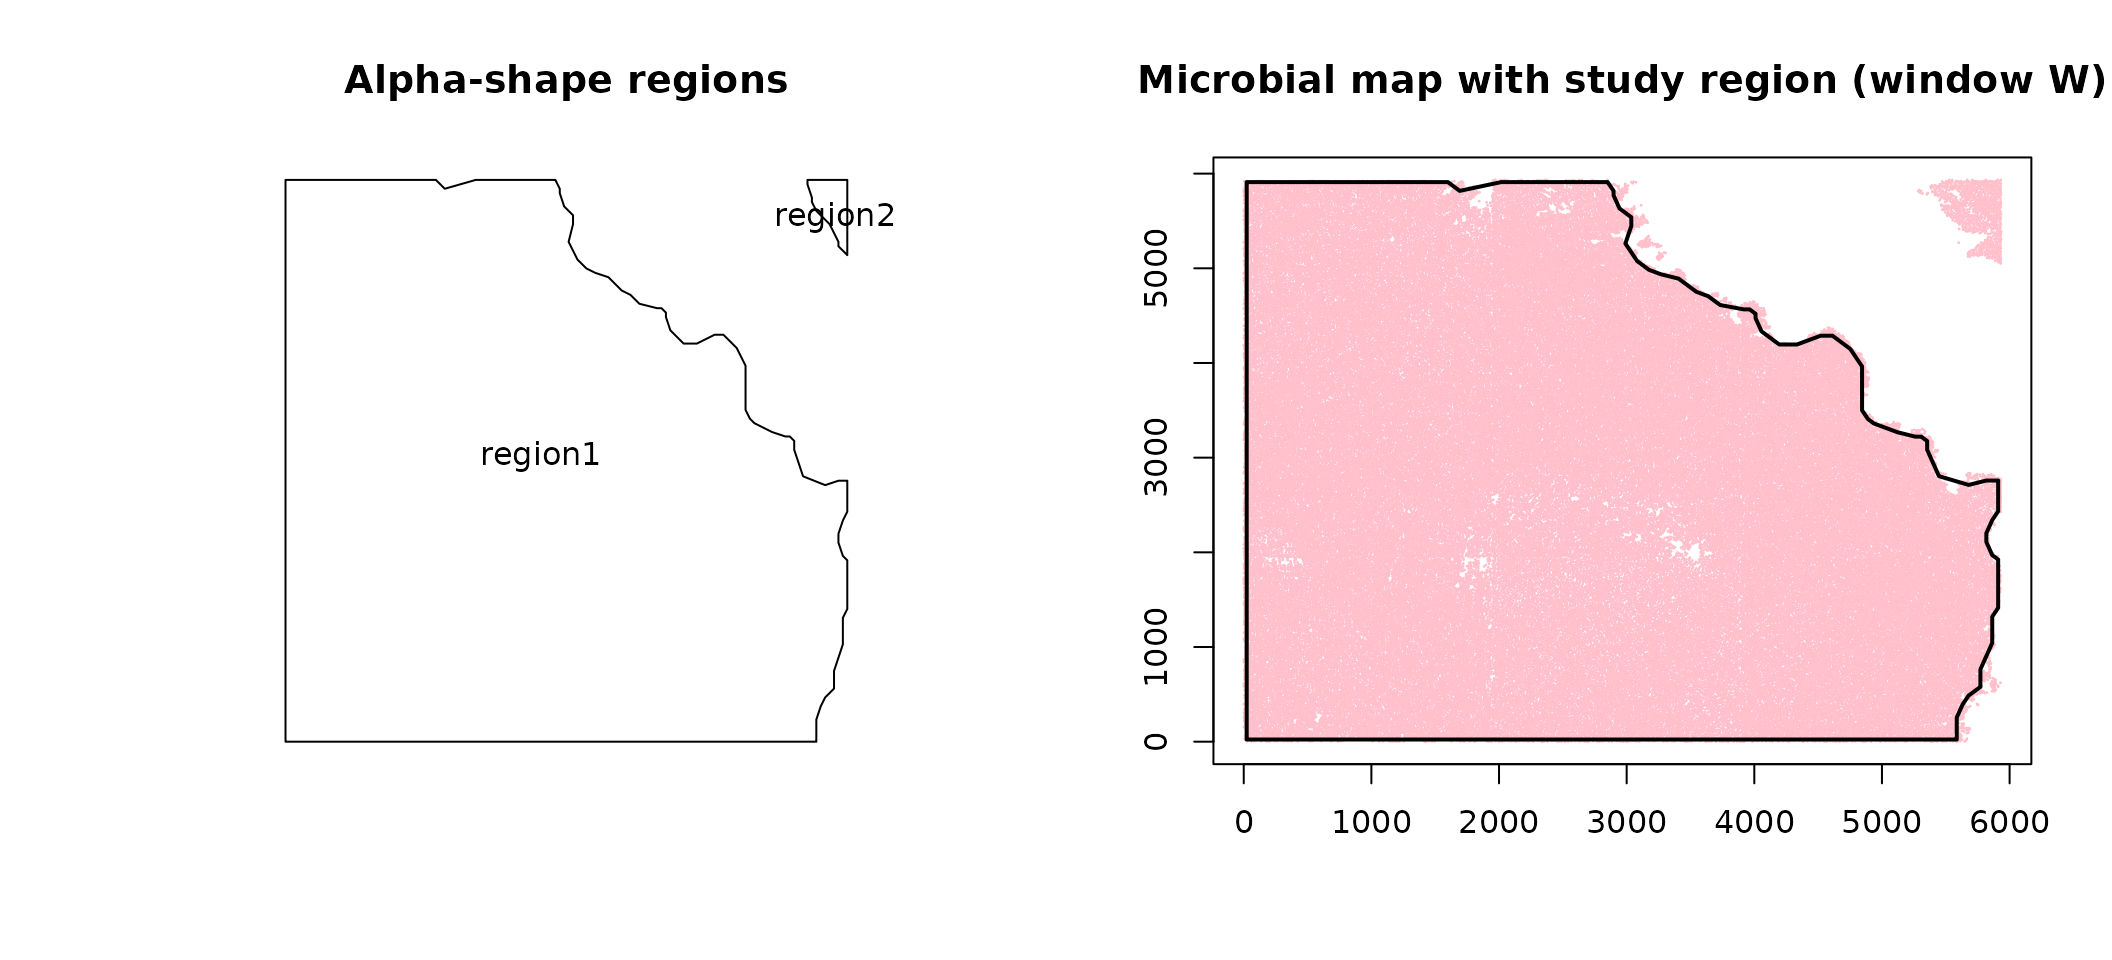
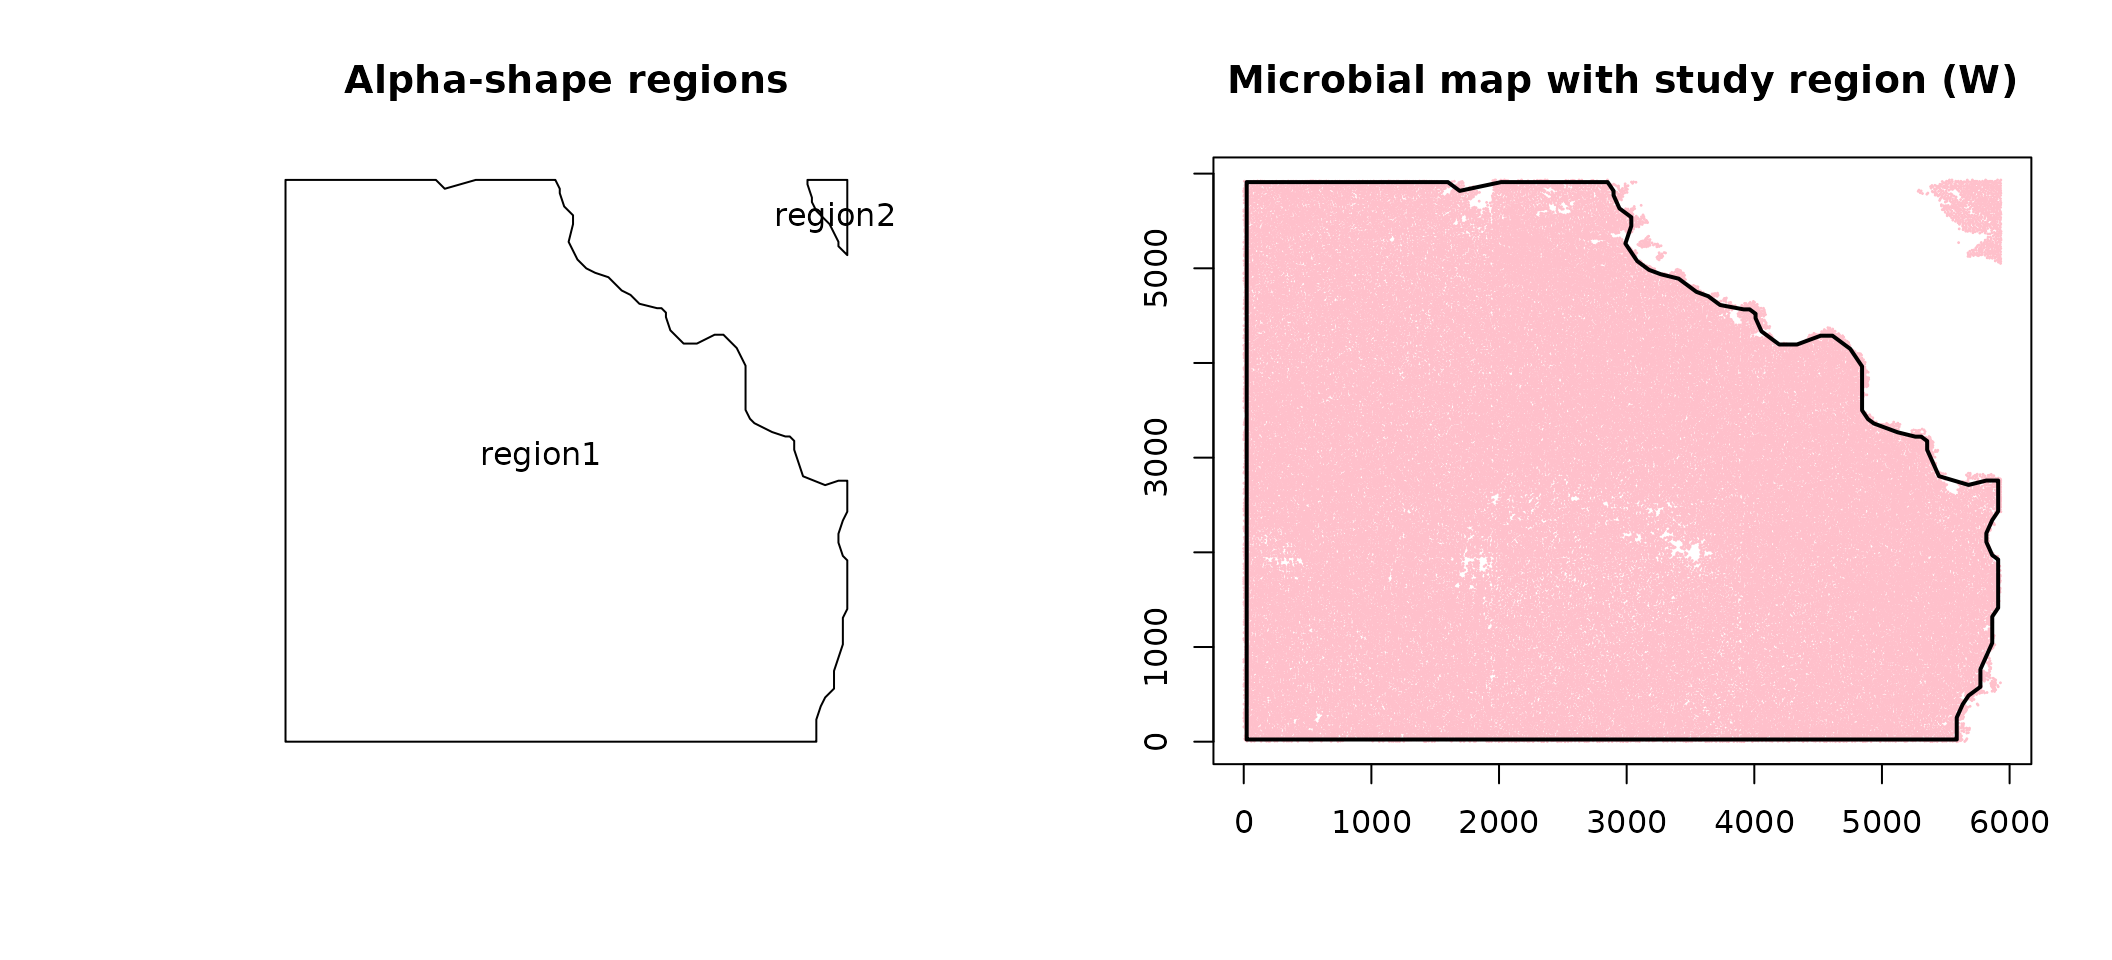
Deploying to gh-pages from @ liuruoqian/MiSA@71c63b5eef7b179bc11b2f46bfb6fba8b68a731a 🚀

Changed region(s): [[0.5312, 0.0625, 1.0, 0.125]]

diff --git a/articles/MiSA_vignette.html b/articles/MiSA_vignette.html
@@ -182,7 +182,7 @@ the region of study and plot it over the example image.</p>
 <span><span class="va">W_all</span> <span class="op">&lt;-</span> <span class="fu"><a href="../reference/plot_regions.html">plot_regions</a></span><span class="op">(</span><span class="va">wins</span><span class="op">)</span></span>
 <span></span>
 <span><span class="va">W</span> <span class="op">&lt;-</span> <span class="va">wins</span><span class="op">$</span><span class="va">region1</span></span>
-<span><span class="fu"><a href="https://rdrr.io/r/graphics/plot.default.html" class="external-link">plot</a></span><span class="op">(</span><span class="va">example_image</span><span class="op">$</span><span class="va">x</span>, <span class="va">example_image</span><span class="op">$</span><span class="va">y</span>, pch<span class="op">=</span><span class="fl">20</span>, col<span class="op">=</span><span class="st">"pink"</span>, cex<span class="op">=</span><span class="fl">0.1</span>, main <span class="op">=</span> <span class="st">"Microbial map with study region (window W)"</span>, xlab <span class="op">=</span> <span class="st">""</span>, ylab <span class="op">=</span> <span class="st">""</span><span class="op">)</span></span>
+<span><span class="fu"><a href="https://rdrr.io/r/graphics/plot.default.html" class="external-link">plot</a></span><span class="op">(</span><span class="va">example_image</span><span class="op">$</span><span class="va">x</span>, <span class="va">example_image</span><span class="op">$</span><span class="va">y</span>, pch<span class="op">=</span><span class="fl">20</span>, col<span class="op">=</span><span class="st">"pink"</span>, cex<span class="op">=</span><span class="fl">0.1</span>, main <span class="op">=</span> <span class="st">"Microbial map with study region (W)"</span>, xlab <span class="op">=</span> <span class="st">""</span>, ylab <span class="op">=</span> <span class="st">""</span><span class="op">)</span></span>
 <span><span class="fu"><a href="https://rdrr.io/r/graphics/plot.default.html" class="external-link">plot</a></span><span class="op">(</span><span class="va">W</span>, add <span class="op">=</span> <span class="cn">TRUE</span>, lwd <span class="op">=</span> <span class="fl">2</span><span class="op">)</span></span></code></pre></div>
 <p><img src="MiSA_vignette_files/figure-html/unnamed-chunk-5-1.png" class="r-plt" alt="" width="1056"></p>
 <p>When running MiSA, <code>W</code> can be used as the window for this

diff --git a/articles/MiSA_vignette.md b/articles/MiSA_vignette.md
@@ -118,7 +118,7 @@ par(mfrow=c(1,2))
 W_all <- plot_regions(wins)
 
 W <- wins$region1
-plot(example_image$x, example_image$y, pch=20, col="pink", cex=0.1, main = "Microbial map with study region (window W)", xlab = "", ylab = "")
+plot(example_image$x, example_image$y, pch=20, col="pink", cex=0.1, main = "Microbial map with study region (W)", xlab = "", ylab = "")
 plot(W, add = TRUE, lwd = 2)
 ```
 
